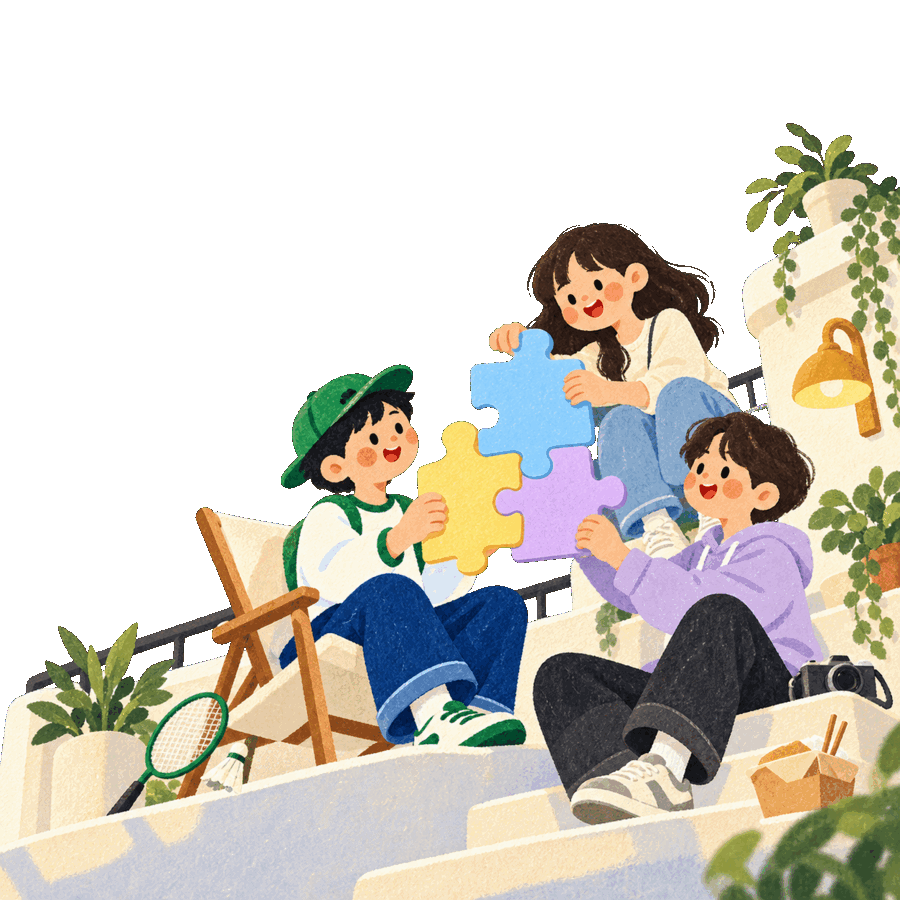
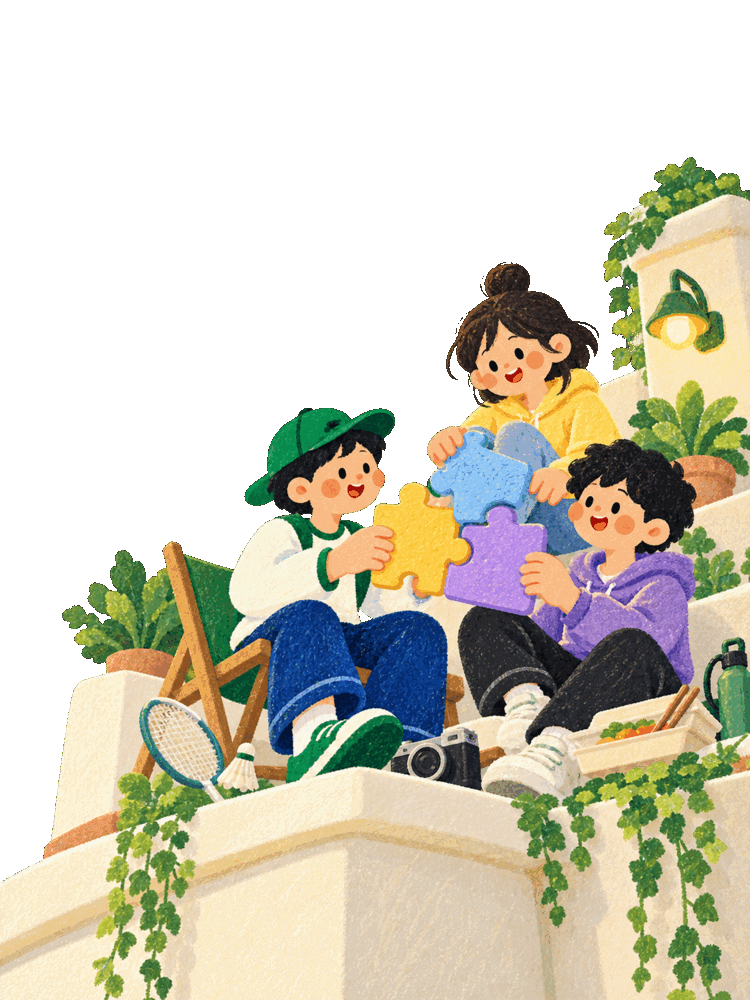
fix: replace and bottom-align home hero art

diff --git a/tests/home-concept-redesign.test.js b/tests/home-concept-redesign.test.js
@@ -64,7 +64,7 @@ test('新首页按问候、Lifestyle Hero、三快捷卡、搜索和活动顺序
   assert.match(style, /\.home-shortcuts\s*\{[^}]*height:\s*220rpx;[^}]*margin-top:\s*-98rpx;/s);
   assert.match(style, /\.home-shortcuts\s*\{[^}]*margin-bottom:\s*8rpx;/s);
   assert.match(style, /\.home-activity-heading\s*\{[^}]*min-height:\s*64rpx;/s);
-  assert.match(style, /\.hero-illustration-slot\s*\{[^}]*right:\s*-18rpx;[^}]*bottom:\s*-2rpx;[^}]*width:\s*650rpx;[^}]*height:\s*650rpx;/s);
+  assert.match(style, /\.hero-illustration-slot\s*\{[^}]*right:\s*0;[^}]*bottom:\s*0;[^}]*width:\s*520rpx;[^}]*height:\s*692rpx;/s);
   assert.match(style, /\.shortcut-icon-slot\s*\{[^}]*width:\s*124rpx;[^}]*height:\s*124rpx;/s);
   assert.match(style, /\.shortcut-subtitle--activities\s*\{[^}]*font-size:\s*16rpx;[^}]*letter-spacing:\s*-1rpx;/s);
   assert.match(template, /class="hero-illustration-slot" aria-hidden="true"/);
@@ -106,10 +106,10 @@ test('用户提供的十张首页素材按槽位缩放且保留完整 Alpha', ()
   assert.ok(totalBytes < 150 * 1024, `素材总大小 ${totalBytes} 应小于 150KB`);
 });
 
-test('正式 Hero 插画使用透明发布版且保持方形完整构图', () => {
+test('正式 Hero 插画使用透明发布版且保持三比四完整构图', () => {
   const hero = pngInfo('assets/images/home/hero-community-puzzle.png');
   const bytes = fs.readFileSync(path.join(root, 'assets/images/home/hero-community-puzzle.png'));
-  assert.deepEqual([hero.width, hero.height], [900, 900]);
+  assert.deepEqual([hero.width, hero.height], [750, 1000]);
   assert.equal(hero.colorType, 3);
   assert.ok(bytes.includes(Buffer.from('tRNS')), 'Hero PNG 必须保留透明通道');
   assert.ok(hero.bytes < 240 * 1024, `Hero 素材 ${hero.bytes} bytes 应小于 240KB`);

diff --git a/.ccg/spec/frontend/index.md b/.ccg/spec/frontend/index.md
@@ -10,7 +10,7 @@
 ## 信息架构
 
 - 首页问候栏与右侧消息/搜索组合必须和微信原生胶囊保持同一水平线：问候栏相对内容流上移 `44rpx`，消息/搜索胶囊在水平方向预留 `168rpx` 原生胶囊避让区。首页内容层继续使用累计 `-48rpx` 光学上移且不得修改全局安全区算法。Hero 顶部向上延伸 `40rpx`，并在既有骨架上累计向下拉伸 `92rpx`：标准屏高度为 `692rpx`、320px 为 `632rpx`，使快捷卡和“附近拼吧”整体下移至悬浮 TabBar 上方约 `16rpx` 的安全距离，同时保持内容连续。首页为单屏固定视口，页面配置必须启用 `disableScroll`、关闭下拉刷新，根节点同时锁定 `100vh` 并裁切纵向溢出。
-- 首页 Hero 正式主视觉使用本地透明 PNG `hero-community-puzzle.png`，采用 `aspectFit` 保留完整人物和场景边缘；标准屏槽位 `650×650rpx`、右移 `-18rpx`、下移 `-2rpx`，320px 槽位 `580×580rpx`、右移 `-10rpx`，并位于文案层下、快捷卡层上方的视觉背景层。“附近拼吧”紧跟快捷卡：快捷卡下间距 `8rpx`、章节栏高 `64rpx`；三列活动卡标准屏高 `292rpx`、320px 高 `260rpx`，封面分别为 `120rpx` 与 `104rpx`，骨架屏必须保持同尺寸。
+- 首页 Hero 正式主视觉使用本地透明 PNG `hero-community-puzzle.png`，采用 `aspectFit` 保留完整人物和场景边缘；发布素材固定为 `750×1000` 的 3:4 竖图，标准屏槽位 `520×692rpx`、320px 槽位 `474×632rpx`，两端均锁定 `right: 0; bottom: 0`，使建筑底面与 Hero 下边框齐平。插画位于文案层下、快捷卡层上方的视觉背景层。“附近拼吧”紧跟快捷卡：快捷卡下间距 `8rpx`、章节栏高 `64rpx`；三列活动卡标准屏高 `292rpx`、320px 高 `260rpx`，封面分别为 `120rpx` 与 `104rpx`，骨架屏必须保持同尺寸。
 - TabBar 固定为“首页 / 发现 / 发布 / 消息 / 我的”五栏；为避免迁移风险，`pages/discover/index` 保持首页物理路由，`pages/community/index` 保持发现物理路由。“发布”保持第 3 项视觉中心，“消息”固定在发布与我的之间。底栏使用微信官方 `custom-tab-bar`，五个 Tab 页必须在 `onShow` 同步选中态。
 - 首页使用 `#F9F7F2` 暖米白生活方式视觉，正文顺序固定为动态头像昵称问候栏、生活方式 Hero、与 Hero 负边距叠放的三张快捷卡、按需展开的搜索与横向类型筛选、真实活动流。首页不渲染“已展示全部”类终点文案。Hero 固定使用标准屏 `692rpx`、320px `632rpx` 的参考图主视觉占高，并加载无障碍隐藏的本地透明正式插画；图片必须保持 `aspectFit`，不得裁切人物、拼图或场景边缘，也不得再次改变页面骨架。三张快捷卡固定为“组队拼团 / 看看大家都在聊什么”“琐碎回忆 / 记录第一次成团”“暂定 / 模块占位”；第一张锚定活动流，第二张只提示分享功能尚未上线，第三张必须为不可点击占位。不得伪造天气、通知、邻里图片或统计。活动流使用显式 `variant="home-preview"` 的三列紧凑卡：网格必须占满与 Hero 相同的正文宽度并使用三列 `minmax(0, 1fr)` 弹性均分，标准屏间距 `21rpx`，320px 间距 `12rpx`，确保左右边界在任意真机视口下与 Hero 对齐；视觉只展示真实发起人、日期、两行标题、受控类型插画与名额，类型、状态、完整时间和地点继续进入整卡聚合读屏文案。系统大字模式降级为单列流式卡。首页首批与每次“查看更多”均最多读取 3 条，并按不透明游标原位去重追加完整一行，不伪造总页数，也不保留上一页/下一页离散分页。真实 UGC 契约上线前，首页不挂载“成团记忆”模块，也不得把活动事实包装为用户分享；已定稿视觉方案见 `archive/formed-memory-editorial-v1.md`。
 - 发现 Tab 使用同源暖米白背景和黑色状态栏文字，顶部为 `PINBA DISCOVER` 标识、发现标题与黑色发帖胶囊，下接只读发现守则、单一真实“正在发生”栏目和白色纯文字帖子流。不得伪造热门话题、分区、置顶、浏览量、帖子配图或“新回 / 我发 / 我赞”等无数据源 Tab。帖子正文默认最多三行并支持连续字符断行，整卡是唯一详情导航热区，底部只展示真实点赞数与回复数；列表头像继续使用昵称首字与受控低饱和色盘。顶部继续复用页面根节点 `contentTopInset`，不得重复叠加状态栏高度。

diff --git a/.ccg/tasks/archive/2026-09/replace-home-hero-bottom-aligned/review.md b/.ccg/tasks/archive/2026-09/replace-home-hero-bottom-aligned/review.md
@@ -1,0 +1,8 @@
+# 审查结论
+
+- Hero 正式素材已替换为用户提供的第二版 3:4 竖向插画，并生成 `750×1000 / 218KB` 的透明发布版。
+- 标准屏槽位调整为 `520×692rpx`，320px 窄屏为 `474×632rpx`，均采用 `right: 0; bottom: 0`。
+- 图片继续使用 `aspectFit`，建筑底面与 Hero 下边框齐平，人物、拼图和植物边缘无裁切。
+- 微信开发者工具视觉检查通过：左上文案未被遮挡，底部快捷卡叠层正常。
+- 首页定向测试 26/26 通过；全量测试 315 pass / 0 fail / 1 historical skip；静态检查通过。
+- 本次为低风险的单素材替换与定位微调，按 CCG 规则由主会话直接完成审查。
